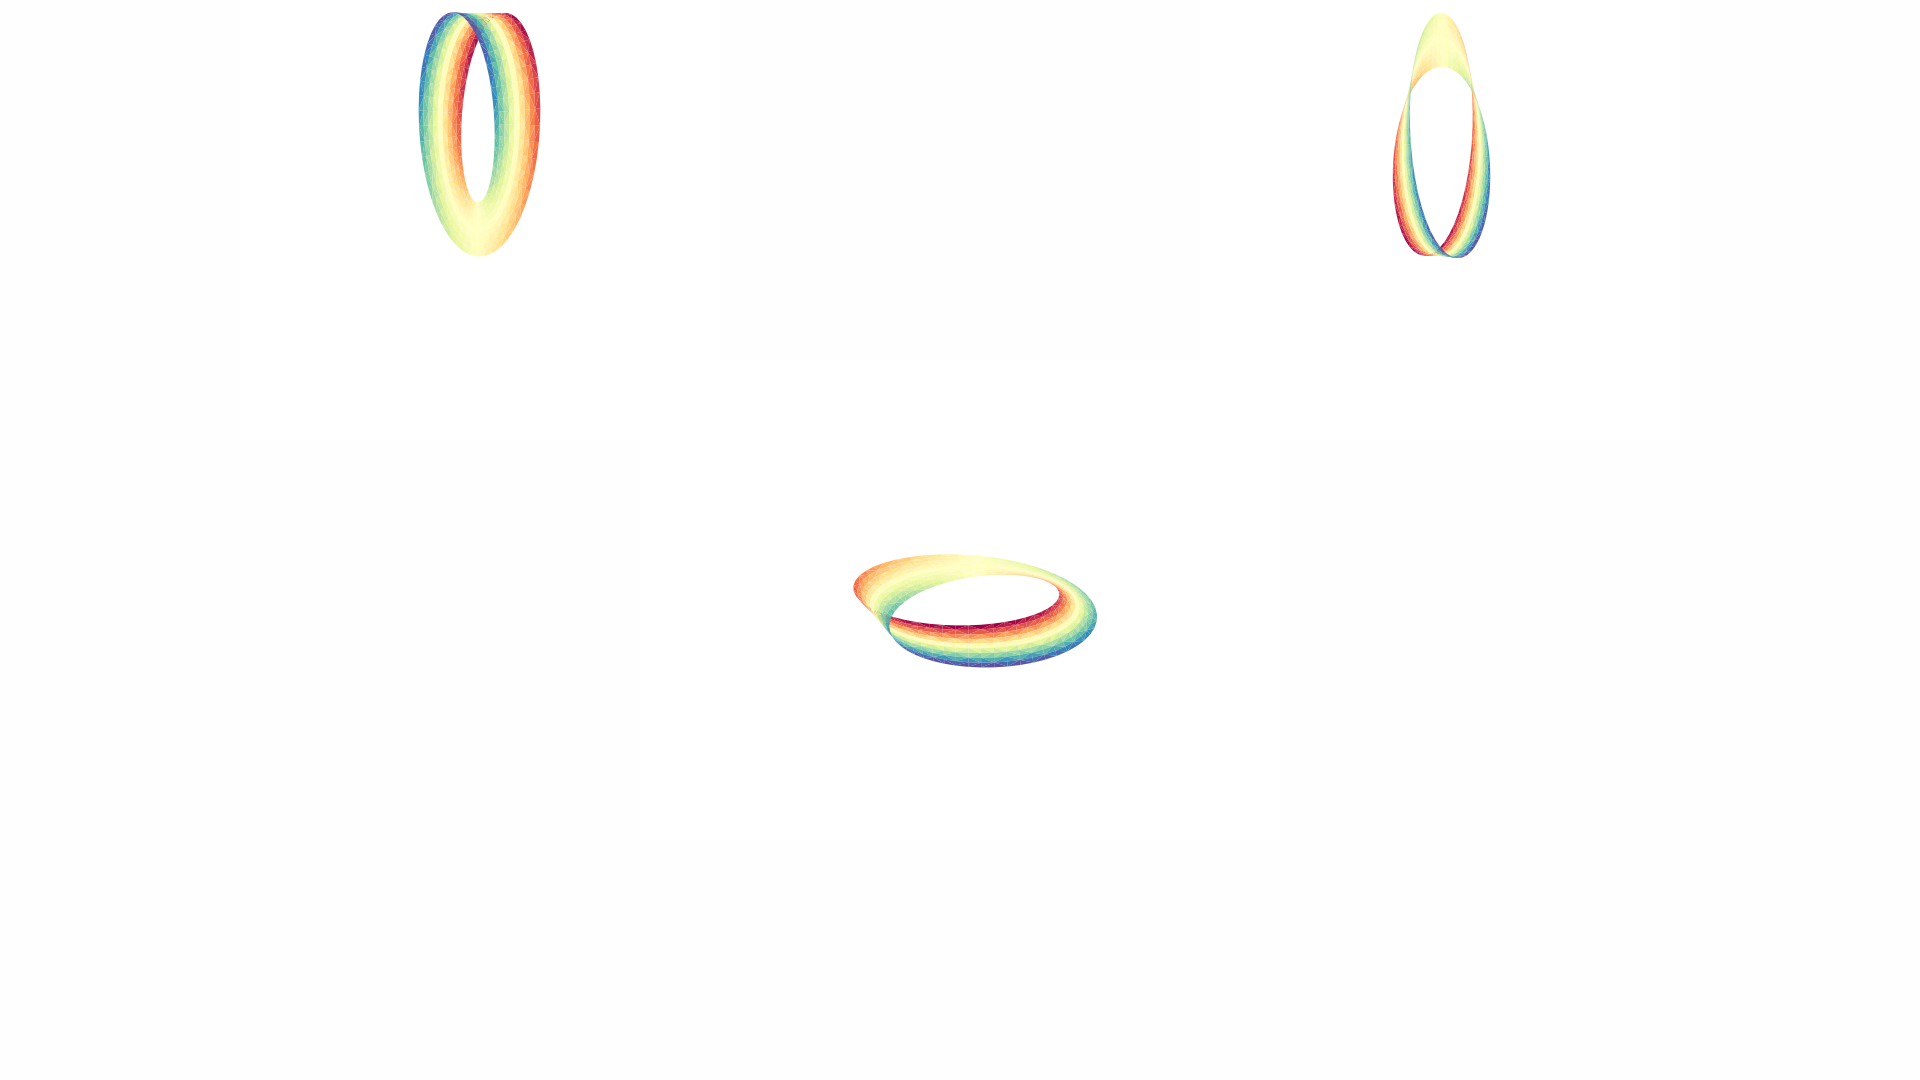
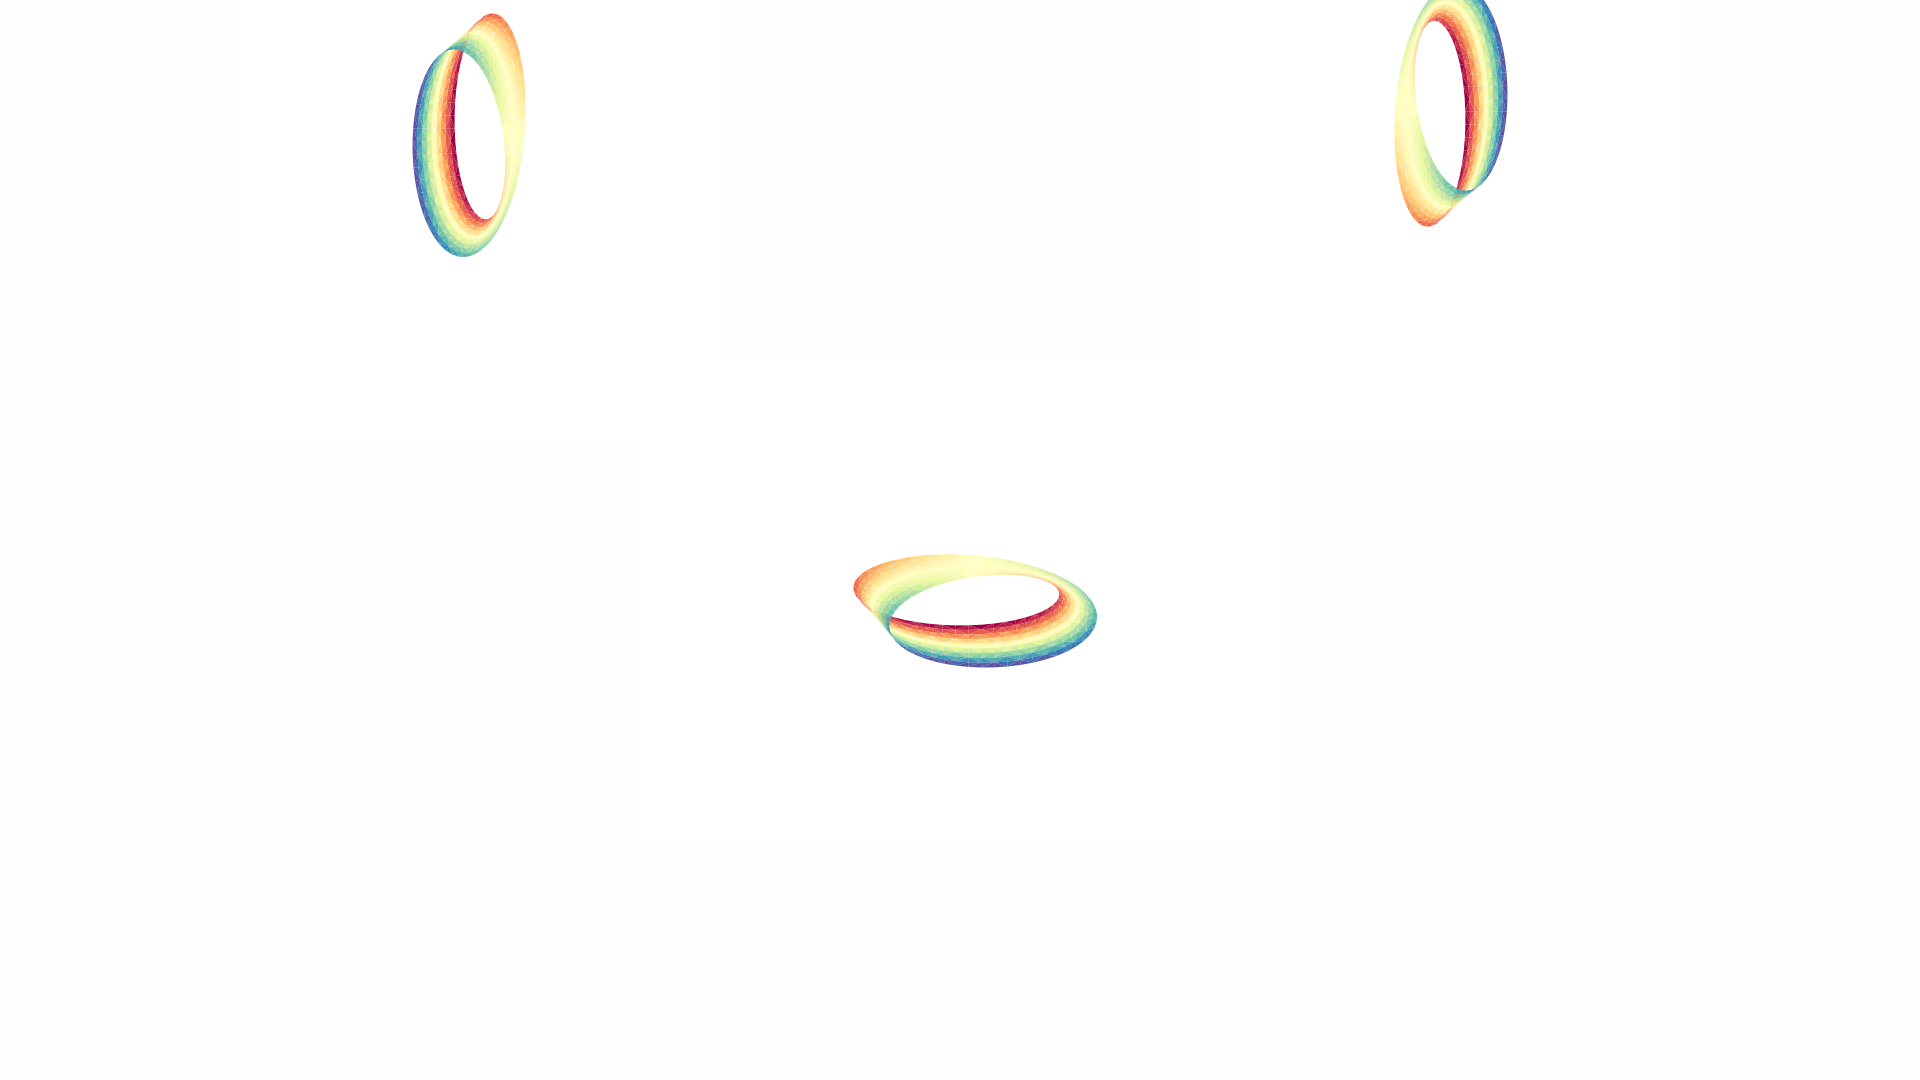
bugfix for right image

Changed region(s): [[0.7188, 0.0, 0.8125, 0.2444], [0.1875, 0.0, 0.2812, 0.2444]]

diff --git a/stitch.py b/stitch.py
@@ -113,7 +113,7 @@ class DreamocImageSticher():
     def place_left_img(self, img, img_output):
         h, mask_L = self.h, self.mask_L
         img_ = self._center_image(img)
-        img_ = np.rot90(img_, axes=(1,0))[:,:h]
+        img_ = np.rot90(img_, axes=(1,0), k=1)[:,:h]
 
         # need to crop the mask before we apply it
         m = mask_L[:h]
@@ -123,15 +123,16 @@ class DreamocImageSticher():
 
 
     def place_right_img(self, img, img_output):
-        h, mask_R = self.h, self.mask_R
+        w, h, mask_R = self.w, self.h, self.mask_R
 
         img_ = self._center_image(img)
-        img_ = np.rot90(img_, axes=(1,0), k=1)[:,:h]
+
+        img_ = np.rot90(img_, axes=(1,0), k=-1)
+        w_ = img_.shape[0]
 
         img_temp = np.zeros_like(img_output)
-
-        img_temp[:h] = img_
-        img_temp = np.flip(img_temp, axis=0)
+        img_temp[:w_] = img_[:w_,:h]
+        img_temp = np.roll(img_temp, axis=0, shift=w-w_)
 
         img_output[mask_R] = img_temp[mask_R]
 
